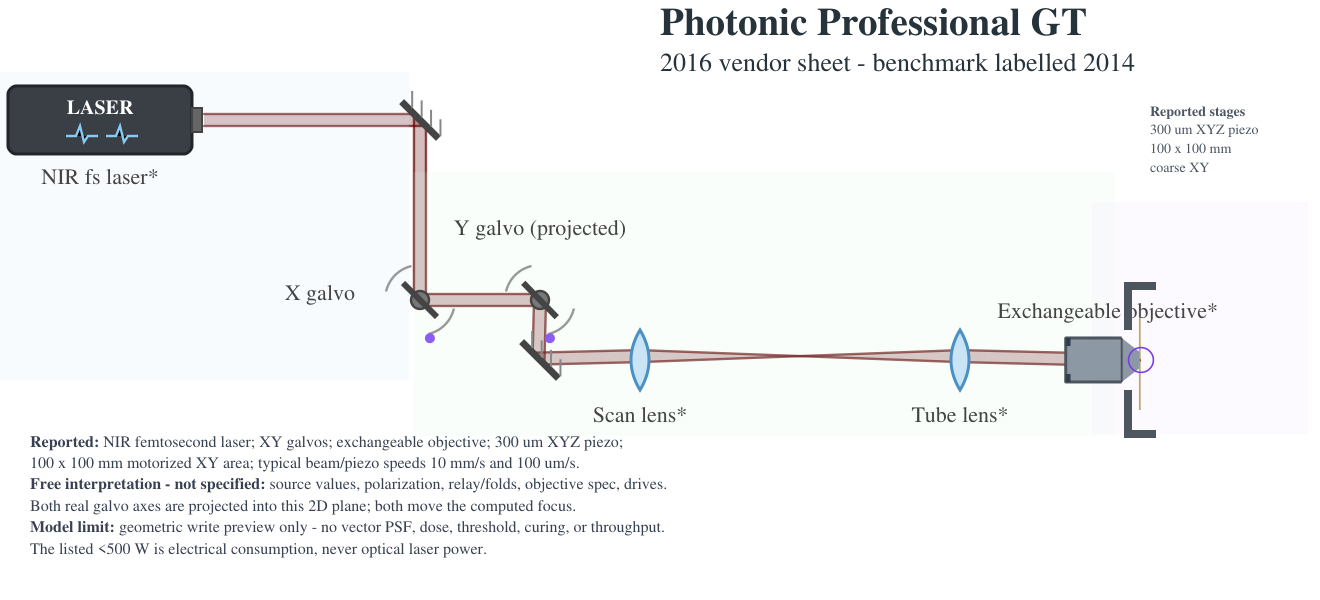
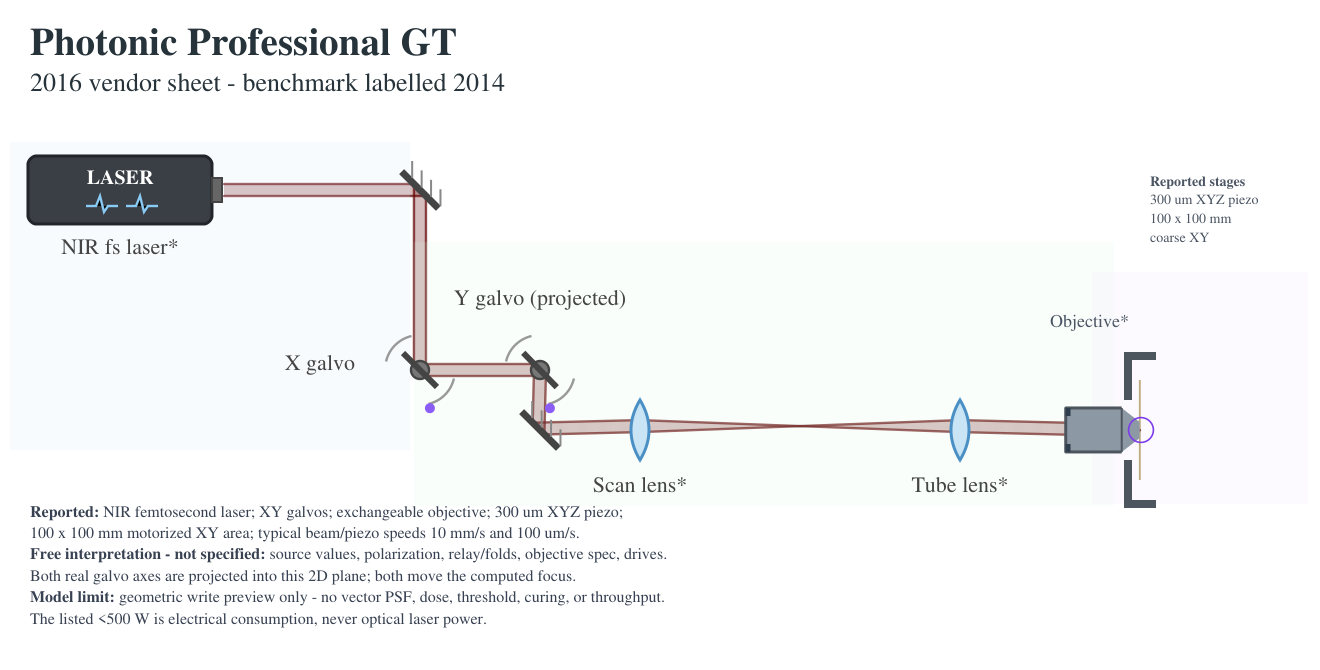
Protect Nanoscribe interpreted inputs and improve scanner review

diff --git a/test/2pp-collection.test.js b/test/2pp-collection.test.js
@@ -1,7 +1,7 @@
 import test from 'node:test';
 import assert from 'node:assert/strict';
 import {readFile} from 'node:fs/promises';
-import { createElement, registry } from '../sketch/js/elements.js';
+import { createElement, registry, getVisualBounds, stageOffsetAt } from '../sketch/js/elements.js';
 import { traceScene } from '../sketch/js/raytrace.js';
 import { parseSketch } from '../sketch/js/state.js';
 import { collectionSetupPath } from '../sketch/js/collection-setups.js';
@@ -34,7 +34,7 @@ test('Nanoscribe GT teaching scene loads, traces, scans, and preserves its nativ
   const galvos = [byId('gt-galvo-x'), byId('gt-galvo-y')];
 
   assert.equal(source.params.handoffBasis, 'interpretation');
-  assert.equal(new URL(buildTwoPhotonHandoffUrl(source)).searchParams.get('basis'), 'interpretation');
+  assert.equal(buildTwoPhotonHandoffUrl(source), null, 'invented values must not leave without supported provenance');
   assert.equal(stage.params.pzTravelXY, 0.3);
   assert.equal(stage.params.pzTravelZ, 0.3);
   assert.ok(Math.abs(2 * stage.params.pzTravelXY * stage.params.pzFreqXY - 0.1) < 1e-12,
@@ -54,6 +54,9 @@ test('Nanoscribe GT teaching scene loads, traces, scans, and preserves its nativ
   source.params.enabled = false;
   assert.equal(traceScene(scene.elements).signalHits.length, 0, 'laser-off control removes the writing path');
   source.params.enabled = true;
+  source.params.avgPowerW = 0;
+  assert.equal(traceScene(scene.elements).writeHits.length, 0, 'zero optical power cannot write');
+  source.params.avgPowerW = 0.08;
   for (const galvo of galvos) galvo.params.scanMode = 'static';
   const staticHit = traceScene(scene.elements).signalHits[0];
   assert.ok(staticHit, 'static-galvo control retains a centred writing path');
@@ -72,4 +75,42 @@ test('only the assigned Nanoscribe record publishes a collection setup', async (
   assert.match(page, /<iframe src="\/sketch\/\?setup=nanoscribe-gt"/);
   assert.match(page, /setups\/nanoscribe-gt\.json/);
   assert.match(page, /research\/nanoscribe-gt\.md/);
+});
+
+
+test('Nanoscribe independently driven axes and fine piezo retain the computed resin route', async () => {
+  const scene = parseSketch(await readFile(new URL('../collections/2pp/setups/nanoscribe-gt.json', import.meta.url), 'utf8'), registry);
+  const galvos = scene.elements.filter(element => element.type === 'galvo');
+  for (const active of galvos) {
+    for (const galvo of galvos) galvo.params.scanMode = galvo === active ? 'sine' : 'static';
+    active.params.scanPhaseDeg = 0;
+    const hits = [0.25, 0.75].map(phase => {
+      active._animationTimeS = phase / active.params.scanFrequencyHz;
+      const traced = traceScene(scene.elements);
+      assert.equal(traced.writeHits.length, 1);
+      return traced.writeHits[0].y;
+    });
+    assert.notEqual(hits[0], hits[1], `${active.id} must move the focus independently`);
+  }
+  for (const galvo of galvos) galvo.params.scanMode = 'static';
+  const stage = scene.elements.find(element => element.type === 'stage');
+  stage.params.pzMode = 'xy';
+  const materialHits = [0.75, 2.25].map(time => {
+    const local = stageOffsetAt(stage.params, time);
+    const moved = { ...stage, y: stage.y + local.x }; // the authored stage is rotated 90 degrees
+    const traced = traceScene(scene.elements.map(element => element === stage ? moved : element));
+    assert.equal(traced.writeHits.length, 1);
+    return traced.writeHits[0].y - moved.y;
+  });
+  assert.ok(Math.abs(materialHits[0] - materialHits[1]) > 0.1, 'piezo movement changes where the focus meets the mounted material');
+});
+
+test('Nanoscribe Figure frame includes all component and text bounds', async () => {
+  const scene = parseSketch(await readFile(new URL('../collections/2pp/setups/nanoscribe-gt.json', import.meta.url), 'utf8'), registry);
+  const frame = getVisualBounds(scene.elements.find(element => element.type === 'figureframe'), { includeLabel: false });
+  for (const element of scene.elements) {
+    const bounds = getVisualBounds(element);
+    assert.ok(bounds.x0 >= frame.x0 && bounds.x1 <= frame.x1
+      && bounds.y0 >= frame.y0 && bounds.y1 <= frame.y1, `${element.id} must fit its export frame`);
+  }
 });

diff --git a/test/2pp-array-elements.test.js b/test/2pp-array-elements.test.js
@@ -84,3 +84,30 @@ test('metalens array retains independent axes and inverse-wavelength focal lengt
   assert.equal(registry.metalensarray.surfaces(normalized).length,8);
   assert.equal(normalized.params.f,1);
 });
+
+
+test('zero or invalid source power cannot illuminate resin or detectors', () => {
+  for (const type of ['cwlaser', 'pulsedlaser', 'sclaser']) {
+    const source = mk(type, 0, 0, { beamMode: 'line' });
+    const stage = mk('stage', 150, 0, { specimenType: 'resin', voxelPreview: true });
+    stage.rot = 90;
+    const detector = mk('detector', 120, 0);
+    for (const avgPowerW of [0, -1, NaN, Infinity, -Infinity, null, '0']) {
+      source.params.avgPowerW = avgPowerW;
+      const resinTrace = traceScene([source, stage]);
+      assert.equal(resinTrace.drawables.length, 0, `${type} at ${avgPowerW}: no rays`);
+      assert.equal(resinTrace.writeHits.length, 0, `${type} at ${avgPowerW}: no writing`);
+      assert.equal(resinTrace.signalHits.length, 0, `${type} at ${avgPowerW}: no sample signal`);
+      traceScene([source, detector]);
+      assert.equal((detectorReading(detector.id)?.signal || 0), 0, `${type} at ${avgPowerW}: dark detector`);
+    }
+    // Positive power changes watt readouts, not the normalized geometric ray
+    // weights. A legacy file with no power field keeps that qualitative path.
+    for (const avgPowerW of [1e-12, 0.1, 1000, undefined]) {
+      source.params.avgPowerW = avgPowerW;
+      const result = traceScene([source, stage]);
+      assert.ok(result.drawables.length > 0, `${type} at ${avgPowerW}: active path`);
+      assert.ok(result.drawables.every(path => (path.pts || []).every(p => Number.isFinite(p.x) && Number.isFinite(p.y))));
+    }
+  }
+});

diff --git a/test/two-photon-handoff.test.js b/test/two-photon-handoff.test.js
@@ -42,10 +42,10 @@ test('keeps user-authored laser labels out of the numeric-only URL contract', ()
   assert.doesNotMatch(buildTwoPhotonHandoffUrl(laser), /img|onerror|label/i);
 });
 
-test('preserves free-interpretation provenance without changing ordinary handoffs', () => {
+test('blocks interpreted source values until the destination preserves their provenance', () => {
   const interpreted = pulsedLaser();
   interpreted.params.handoffBasis = 'interpretation';
-  assert.equal(new URL(buildTwoPhotonHandoffUrl(interpreted)).searchParams.get('basis'), 'interpretation');
+  assert.equal(buildTwoPhotonHandoffUrl(interpreted), null);
   assert.equal(new URL(buildTwoPhotonHandoffUrl(pulsedLaser())).searchParams.has('basis'), false);
 });
 
@@ -247,4 +247,17 @@ test('the inspector explains missing pulse illumination and stays hidden for oth
 
   stage.params.specimenType = 'absorbing';
   assert.doesNotMatch(stageInspectorHTML(laser, stage), /Continue the 2PP workflow/);
+});
+
+
+test('the resin inspector explains the unsupported interpretation handoff', () => {
+  const laser = pulsedLaser();
+  laser.params.handoffBasis = 'interpretation';
+  const stage = createElement('stage', 150, 0);
+  stage.rot = 90;
+  stage.params.specimenType = 'resin';
+  const html = stageInspectorHTML(laser, stage);
+  assert.match(html, /free-interpretation values/);
+  assert.match(html, /numeric transfer is disabled/);
+  assert.doesNotMatch(html, /class="two-photon-link"/);
 });

diff --git a/sketch/js/inspector.js b/sketch/js/inspector.js
@@ -821,7 +821,12 @@ export function renderInspector() {
         );
         sectionFields += `<div class="two-photon-handoff"><div class="lsechead">Continue the 2PP workflow</div>`;
         if (!candidates.length) {
-          sectionFields += `<div class="hint">Aim a compatible ordinary pulsed Laser at this resin sample (500–1064 nm, up to 1 W source power, 10–100 MHz, 50–400 fs) to open the dedicated lithography lab with its settings.</div>`;
+          const incidentSourceIds = new Set(signalHitsFromLastTrace(sel.id).map(hit => hit.sourceId));
+          const interpretedSource = state.elements.some(element => incidentSourceIds.has(element.id)
+            && element.params?.handoffBasis === 'interpretation');
+          sectionFields += interpretedSource
+            ? `<div class="hint">This source uses free-interpretation values, not reported optical settings. The destination does not yet preserve this provenance, so numeric transfer is disabled.</div>`
+            : `<div class="hint">Aim a compatible ordinary pulsed Laser at this resin sample (500–1064 nm, up to 1 W source power, 10–100 MHz, 50–400 fs) to open the dedicated lithography lab with its settings.</div>`;
         } else {
           const multiple = candidates.length > 1;
           sectionFields += candidates.map(({ laser, numericalAperture, gddFs2, stretchedPulseWidthFs }, index) => {

diff --git a/sketch/js/two-photon-handoff.js b/sketch/js/two-photon-handoff.js
@@ -13,6 +13,9 @@ function formatQueryNumber(value) {
 export function buildTwoPhotonHandoffUrl(laser, baseUrl = TWO_PHOTON_LAB_URL, options = {}) {
   if (laser?.type !== 'pulsedlaser') return null;
   const p = laser.params;
+  // The destination does not yet accept interpretation provenance. Refuse
+  // these sources rather than silently relabel invented values as user data.
+  if (p?.handoffBasis === 'interpretation') return null;
   if (![p.wavelength, p.avgPowerW, p.repRateMHz, p.pulseWidthFs].every(finite)) return null;
   if (p.wavelength <= 0 || p.avgPowerW < 0 || p.repRateMHz <= 0 || p.pulseWidthFs <= 0) return null;
   if (p.wavelength < 500 || p.wavelength > 1064
@@ -23,7 +26,6 @@ export function buildTwoPhotonHandoffUrl(laser, baseUrl = TWO_PHOTON_LAB_URL, op
   const url = new URL(baseUrl);
   url.searchParams.set('from', 'opticalsetup');
   url.searchParams.set('v', '1');
-  if (p.handoffBasis === 'interpretation') url.searchParams.set('basis', 'interpretation');
   url.searchParams.set('wavelengthNm', formatQueryNumber(p.wavelength));
   url.searchParams.set('sourcePowerMw', formatQueryNumber(p.avgPowerW * 1000));
   url.searchParams.set('repetitionRateMHz', formatQueryNumber(p.repRateMHz));

diff --git a/sketch/js/elements.js b/sketch/js/elements.js
@@ -1857,7 +1857,11 @@ function laserAperture(el) {
 
 function laserSource(el) {
   const p = el.params;
-  if (p.enabled === false) return [];
+  // Relative ray weights remain normalized for qualitative geometry, but an
+  // explicitly powerless or malformed source cannot illuminate a detector or
+  // leave resin write markers. Missing power is a legacy sketch convention.
+  if (p.enabled === false || (p.avgPowerW !== undefined
+    && (typeof p.avgPowerW !== 'number' || !Number.isFinite(p.avgPowerW) || p.avgPowerW <= 0))) return [];
   if (p.beamMode === 'beam') {
     // sample rays across the beam width; adjacent samples with an identical
     // interaction history are filled as an envelope strip, so a lenslet

diff --git a/collections/2pp/research/nanoscribe-gt.md b/collections/2pp/research/nanoscribe-gt.md
@@ -27,7 +27,7 @@
 
 ## Functional interpretation
 
-The scene implements the documented functional order: NIR femtosecond source, proprietary beam delivery, serial XY galvo scanner, relay to an exchangeable objective, and a resin sample carried by a fine XYZ piezo stage on a coarse XY positioning system. The p. 1 photograph only labels product subsystems. It does not reveal the internal attenuator, polarization optics, beam-expansion ratio, scanner separation, scan/tube-lens prescriptions, pupil conjugates, objective catalogue number, detection path, or proprietary laser architecture.
+The scene implements an interpreted optical order through the documented subsystems: NIR femtosecond source, proprietary beam delivery, serial XY galvo scanner, relay to an exchangeable objective, and a resin sample carried by a fine XYZ piezo stage on a coarse XY positioning system. The p. 1 photograph only labels product subsystems. It does not reveal the internal attenuator, polarization optics, beam-expansion ratio, scanner separation, scan/tube-lens prescriptions, pupil conjugates, objective catalogue number, detection path, or proprietary laser architecture.
 
 To make the workbench trace and animate, the native scene adds a 780 nm, 100 fs, 80 MHz, 80 mW source; two packaging folds; two moving galvos; an 80 mm + 80 mm 4f relay; and a generic 40x oil, NA 1.4 objective. Every one of those values or components is labelled **Free interpretation - not specified in the datasheet**. The relay images the projected scanner region toward the objective pupil and the objective forms a traced focus in the resin. The two physical scanner axes are perpendicular in the instrument; OpticalSetup is a 2D meridional workbench, so both axes are deliberately projected into the same drawn plane. This shows that both mirror commands move the computed focus, but it does not reproduce an XY field map or calibrated scan geometry.
 
@@ -35,7 +35,7 @@ The optional piezo control uses 0.3 mm travel. A triangle sweep at 1/6 Hz has a 
 
 ## Controls to try
 
-1. **Laser enable:** select the pulsed laser and turn off **Emit traced rays**. The entire computed route and write preview disappear. Changing average power changes source/peak-power readouts and the calculator handoff, but OpticalSetup does not calibrate voxel dose or curing.
+1. **Laser enable:** select the pulsed laser and turn off **Emit traced rays**. The entire computed route and new write arrivals disappear. Zero average power has the same effect. Changing positive average power changes source/peak-power readouts, but OpticalSetup does not calibrate voxel dose or curing.
 2. **Galvo hold:** set both galvos to **Static** with a 0 degree centre command. The beam remains centred and the sample is still reached, but the focus stops scanning. Re-enable the sine scans to see both mirrors move and the downstream hit shift.
 3. **One projected axis:** leave the X galvo moving and set the Y galvo amplitude to zero, then swap them. Each mirror independently changes the computed downstream path. Because both real axes are collapsed into the drawing plane, this is a mechanism check rather than an XY calibration.
 4. **Piezo mode:** set the sample stage to **XY - long axis**. The mounted resin moves through the fixed focus over the reported 300 um range at the configured 100 um/s leg speed. **XYZ sync - raster** is an educational raster proxy, not a disclosed Nanoscribe trajectory.
@@ -43,7 +43,7 @@ The optional piezo control uses 0.3 mm travel. A triangle sweep at 1/6 Hz has a 
 
 ## Supported and unsupported handoff
 
-The native resin scene can open the Two-Photon Lithography Lab because it has a traced pulsed source and objective. Its URL carries `basis=interpretation`, so the invented 780 nm, 80 mW, 80 MHz, 100 fs and NA 1.4 inputs are not presented as datasheet measurements. There is no paper preset: the verified vendor settings object is empty because none of those optical quantities is specified. Scan speed, piezo travel and motorized area are apparatus controls and are unsupported by the calculator contract. The workbench preview is geometric only; it does not establish a calibrated 2PP prediction.
+The native resin scene retains `handoffBasis=interpretation` on its source, but numeric transfer is disabled. The companion currently cannot preserve that provenance; sending `basis=interpretation` is insufficient because an unsupported query value can be ignored. The invented 780 nm, 80 mW, 80 MHz, 100 fs and NA 1.4 inputs therefore stay in this teaching scene. The resin inspector explains the disabled transfer. There is no paper preset: the verified vendor settings object is empty because none of those optical quantities is specified. Scan speed, piezo travel and motorized area are apparatus controls and are unsupported by the calculator contract. The workbench preview is geometric only; it does not establish a calibrated 2PP prediction.
 
 ## Model limits
 
@@ -59,3 +59,14 @@ The native resin scene can open the Two-Photon Lithography Lab because it has a 
 - [Laser disabled](../verification/nanoscribe-gt-laser-off.png)
 
 These PNGs were rasterized from OpticalSetup's own deterministic SVG export of the native scene and the stated control mutations. They are not redrawn beam paths or a substitute workbench.
+
+
+## PR 127 review — 2026-09-05
+
+Re-read both supplied datasheet pages and visually inspected the labelled system photograph. The source is still the 2016 revision; the optical source values, objective and relay remain interpretations. The text now distinguishes an interpreted optical order from the vendor’s documented subsystems.
+
+Fixed a provenance loss: the companion does not support `basis=interpretation`, so adding that query parameter did not guarantee that invented settings would remain labelled. The URL builder now refuses interpreted sources and the illuminated resin inspector explains the disabled transfer. This survives save/reload and also protects an interpreted source moved to another sample. Ordinary user-configured handoffs still work.
+
+Repositioned the title/source and resized the crop to prevent clipped bounds, moved the objective label above the sample bracket to remove their collision, and regenerated all three native preview images. Applied the shared source correction so zero optical power no longer emits light or leaves resin arrivals.
+
+Validation: `npm test` passed (782 tests); every `sketch/js/*.js` and `serve.mjs` passed `node --check`; `git diff --check` passed. Regressions cover each galvo independently, held scanners, the 300 um piezo moving the material through a fixed focus, laser off/zero power, save/reload, unsupported-provenance handoff and inspector copy, and every component/text bound inside the Figure frame. Updated [default](../verification/nanoscribe-gt-default.png), [held galvos](../verification/nanoscribe-gt-static-galvos.png) and [laser-off](../verification/nanoscribe-gt-laser-off.png) PNGs were generated from native SVG exports and visually inspected. Live browser verification is recorded separately by the collection reviewer; these exports do not claim browser UI coverage.
